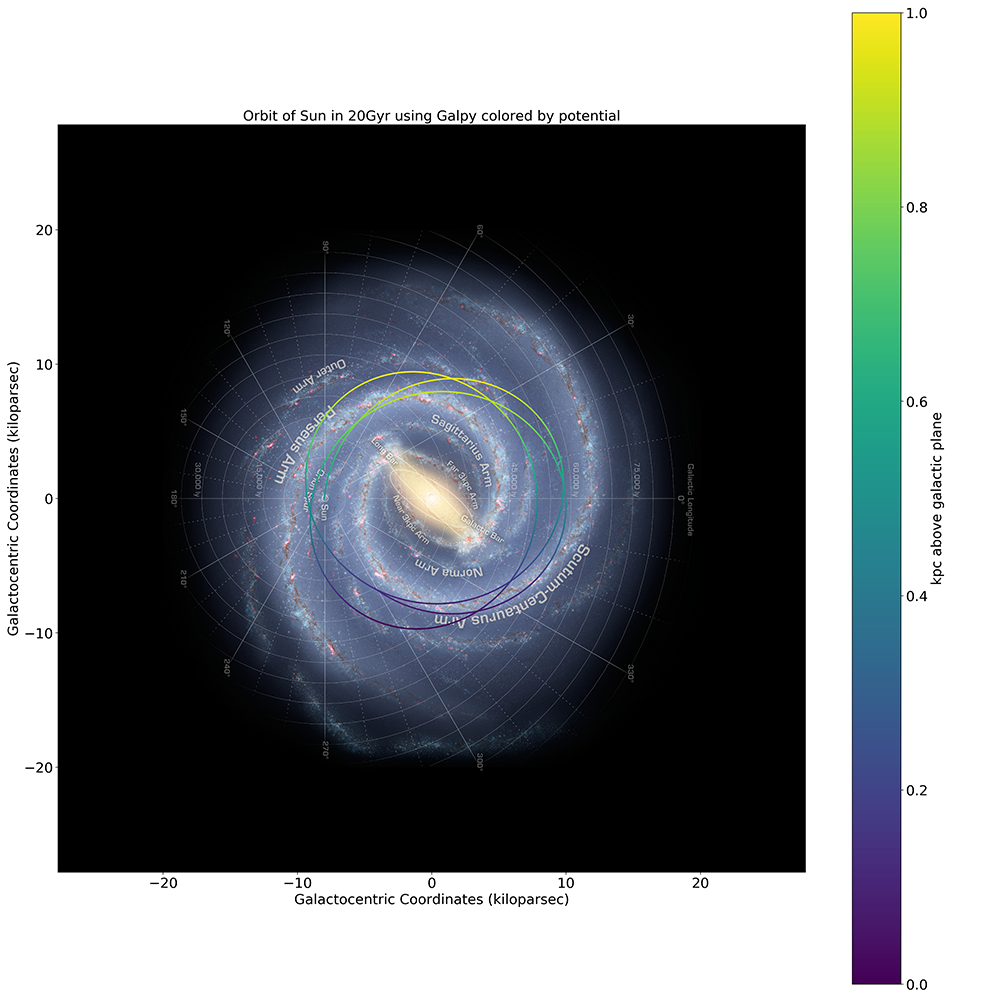
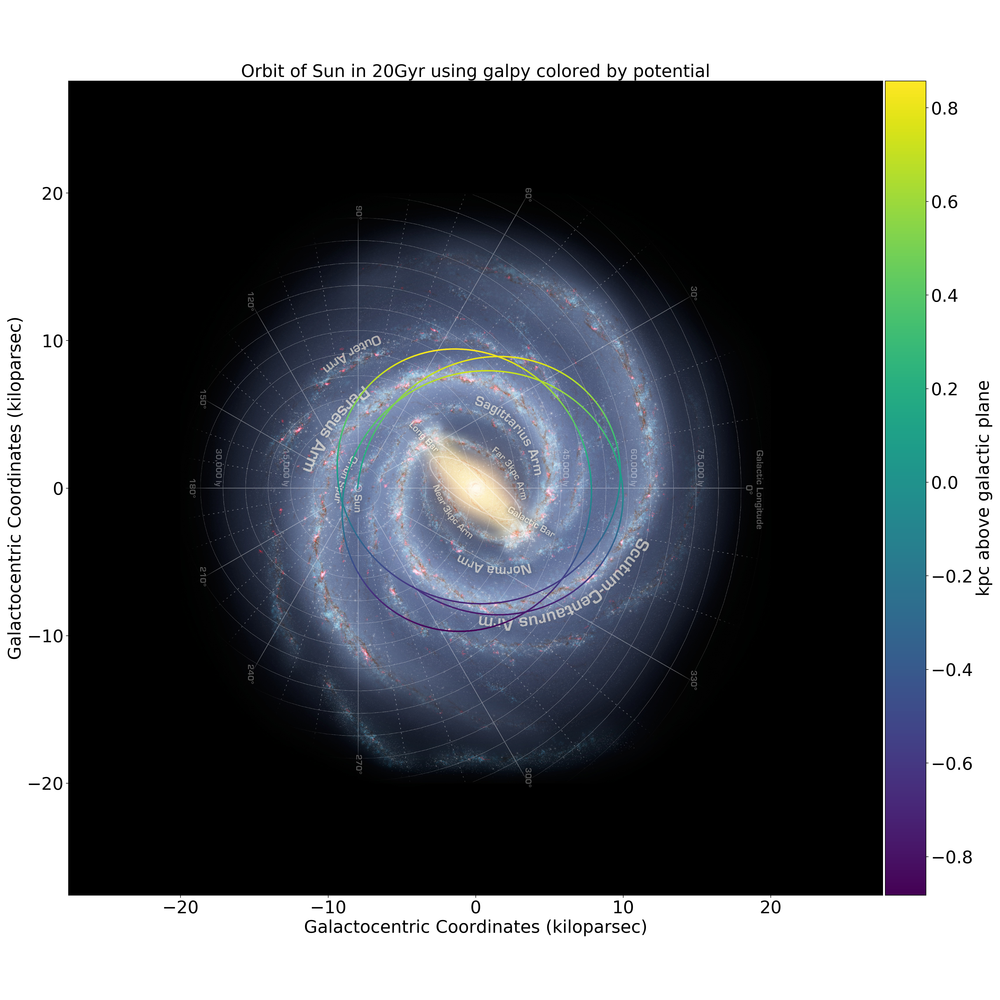
fix colorbar not matching plot height

diff --git a/mw_plot.py b/mw_plot.py
@@ -1,4 +1,5 @@
 import pylab as plt
+from mpl_toolkits.axes_grid1 import make_axes_locatable
 from astropy import units as u
 
 
@@ -12,7 +13,7 @@ class MWPlot():
         2018-Mar-17 - Written - Henry Leung (University of Toronto)
     """
     def __init__(self):
-        self.fontsize = 20
+        self.fontsize = 25
         self.unit = u.lyr
         self.coord = None
         self.s = 1.0
@@ -20,7 +21,7 @@ class MWPlot():
         self.dpi = 200
         self.cmap = "viridis"
         self.center = (0, 0) * u.lyr
-        self.radius = 90750 * u.lyr
+        self.radius = 90000 * u.lyr
 
         # Fixed value
         self.__resolution = 24.2 * u.lyr
@@ -98,14 +99,18 @@ class MWPlot():
         self.__fig = plt.figure(figsize=self.figsize, dpi=self.dpi)
         plt.title(title, fontsize=self.fontsize)
         plt.scatter(x, y, zorder=1, s=self.s, c=color, cmap=plt.get_cmap(self.cmap))
-        plt.imshow(img, zorder=0, extent=ext)
         plt.xlabel(f'{coord_english} ({unit_english})', fontsize=self.fontsize)
         plt.ylabel(f'{coord_english} ({unit_english})', fontsize=self.fontsize)
         aspect = img.shape[0] / float(img.shape[1]) * ((ext[1] - ext[0]) / (ext[3] - ext[2]))
-        plt.gca().set_aspect(aspect)
+        ax = plt.gca()
+        ax.set_aspect(aspect)
+        ax.imshow(img, zorder=0, extent=ext)
+
         if cbar_flag is True:
-            cbar = plt.colorbar()
+            divider = make_axes_locatable(ax)
+            cax = divider.append_axes("right", size="5%", pad=0.05)
+            cbar = plt.colorbar(cax=cax)
             cbar.ax.tick_params(labelsize=self.fontsize)
             cbar.set_label(f"{cbar_label}", size=self.fontsize)
-        plt.xticks(fontsize=self.fontsize)
-        plt.yticks(fontsize=self.fontsize)
+
+        ax.tick_params(labelsize=self.fontsize)

diff --git a/README.md b/README.md
@@ -5,19 +5,20 @@ A handy python script to plot things on a face-on milkyway using pylab
 The Milky-Way background Credits: NASA/JPL-Caltech/R. Hurt (SSC/Caltech)
 Both MW.png and MW_galactocentric.png are 7500x7500px with resolution of 24.2 lightyears per pixel
 
-## Usage
+## Basic Usage
 
 ```
 from mw_plot import MWPlot
+from astropy import units
 
 # setup a MWPlot instance
 plot_instance = MWPlot()
 
 # Here are some setting you can set
-plot_instance.unit = units.kpc
+plot_instance.unit = units.kpc  # units of the plot (astropy.units)
 plot_instance.coord = 'galactocentric'  # can be 'galactocentric' or 'galactic'
-plot_instance.center = (0, 0) * units.kpc
-plot_instance.radius = 90750 * u.lyr
+plot_instance.center = (0, 0) * units.kpc  # Coordinates of the center of the plot
+plot_instance.radius = 90000 * u.lyr  # Radius of the plot
 plot_instance.figsize = (20, 20)
 plot_instance.dpi = 200
 plot_instance.cmap = 'viridis'  # matplotlib cmap: https://matplotlib.org/examples/color/colormaps_reference.html
@@ -38,7 +39,7 @@ plot_instance.plot()
 plot_instance.savefig('name.png')
 ```
 
-## Example usage by plotting orbits of Sun integrated by galpy
+## Example: plotting orbits of Sun integrated by galpy
 
 ![](example_plot_1.png)
 
@@ -46,26 +47,26 @@ plot_instance.savefig('name.png')
 from galpy.potential import LogarithmicHaloPotential
 from galpy.orbit import Orbit
 import numpy as np
-from astropy import units
+from astropy import units as u
 from mw_plot import MWPlot
-import pylab as plt
 
 # Orbit Integration using galpy for the Sun
-op= Orbit(vxvv=[-8.*units.kpc,22.*units.km/units.s,242*units.km/units.s,0.*units.kpc,22.*units.km/units.s,0.*units.deg])
+# see http://galpy.readthedocs.io/en/latest/orbit.html for detail
+op= Orbit(vxvv=[-8.*u.kpc,22.*u.km/u.s,242*u.km/u.s,0.*u.kpc,22.*u.km/u.s,0.*u.deg])
 lp= LogarithmicHaloPotential(normalize=1.)
 ts= np.linspace(0,20,10000)
 op.integrate(ts,lp)
-x = (op.x(ts))*units.kpc
-y = op.y(ts)*units.kpc
+x = (op.x(ts))*u.kpc
+y = op.y(ts)*u.kpc
 z = op.z(ts)
 
 # setup a MWPlot instance
 plot_instance = MWPlot()
-plot_instance.unit = units.kpc
+plot_instance.unit = u.kpc
 plot_instance.coord = 'galactocentric'
 
 # plot
-plot_instance.mw_plot(x, y, [z, 'kpc above galactic plane'], 'Orbit of Sun in 20Gyr using Galpy colored by potential')
+plot_instance.mw_plot(x, y, [z, 'kpc above galactic plane'], 'Orbit of Sun in 20Gyr using galpy colored by potential')
 # Save the figure
 plot_instance.savefig(file='mw_plot.png')
 # Show the figure
@@ -78,32 +79,32 @@ plot_instance.show()
 from galpy.potential import LogarithmicHaloPotential
 from galpy.orbit import Orbit
 import numpy as np
-from astropy import units
+from astropy import units as u
 from mw_plot import MWPlot
-import pylab as plt
 
 # Orbit Integration using galpy for the Sun
-op= Orbit(vxvv=[-8.*units.kpc,22.*units.km/units.s,242*units.km/units.s,0.*units.kpc,22.*units.km/units.s,0.*units.deg])
+# see http://galpy.readthedocs.io/en/latest/orbit.html for detail
+op= Orbit(vxvv=[-8.*u.kpc,22.*u.km/u.s,242*u.km/u.s,0.*u.kpc,22.*u.km/u.s,0.*u.deg])
 lp= LogarithmicHaloPotential(normalize=1.)
 ts= np.linspace(0,20,10000)
 op.integrate(ts,lp)
-x = (op.x(ts))*units.kpc
-y = op.y(ts)*units.kpc
+x = (op.x(ts))*u.kpc
+y = op.y(ts)*u.kpc
 z = op.z(ts)
 
 # setup a MWPlot instance
 plot_instance = MWPlot()
-plot_instance.unit = units.kpc
+plot_instance.unit = u.kpc
 plot_instance.coord = 'galactocentric'
 
 # Set the center and radius of the plot
-plot_instance.center = (0, -8) * units.kpc
-plot_instance.radius = 5 * units.kpc
+plot_instance.center = (0, -8) * u.kpc
+plot_instance.radius = 5 * u.kpc
 
 plot_instance.s = 50.0  # make the scatter points bigger
 
 # plot
-plot_instance.mw_plot(x, y, 'r', 'Orbit of Sun in 20Gyr using Galpy')
+plot_instance.mw_plot(x, y, 'r', 'Orbit of Sun in 20Gyr using galpy')
 
 # Save the figure
 plot_instance.savefig(file='mw_plot_zoomed.png')
